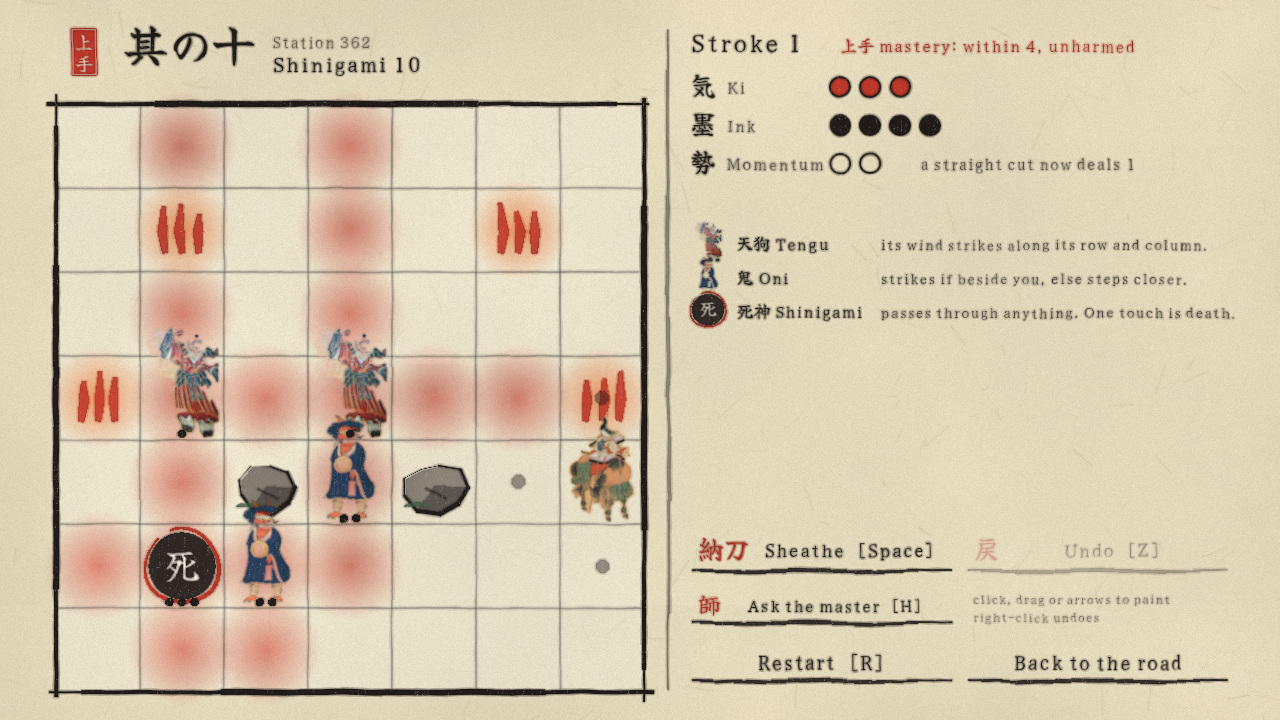
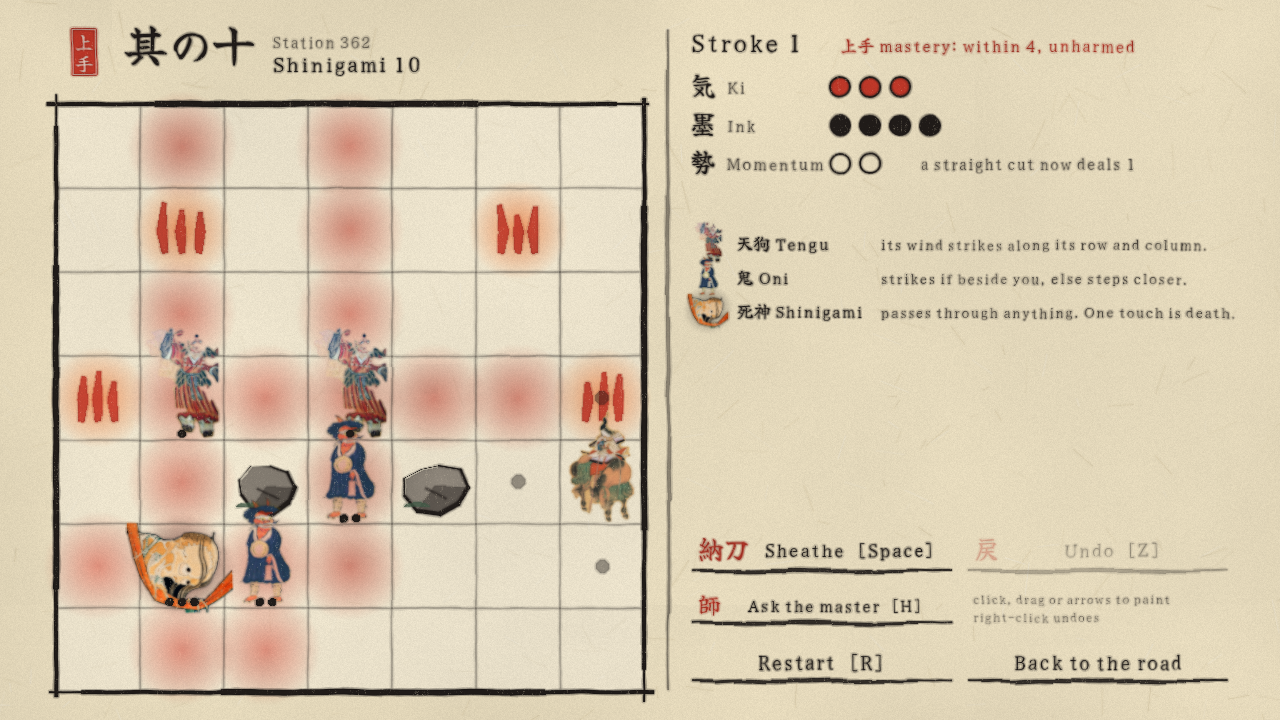
Shinigami: use Hokusai's Ghost of Kohada Koheiji
Replaces the placeholder seal with a figure cut from the 1831-32 print.

diff --git a/art/CREDITS.md b/art/CREDITS.md
@@ -26,6 +26,7 @@ Each figure was cropped from the painting and its paper made transparent.
 - `gasha.png` - Utagawa Kuniyoshi, *Takiyasha the Witch and the Skeleton Spectre*, c. 1844 (detail). Public domain.
 - `daruma.png` - Hakuin Ekaku, *Portrait of Daruma*, 18th century. Metropolitan Museum of Art. Public domain.
 - `tanuki.png` - Katsushika Hokusai, tanuki in a monk's robe beside a tea kettle (*Bunbuku chagama*). Public domain.
+- `shinigami.png` - Katsushika Hokusai, *The Ghost of Kohada Koheiji*, from *One Hundred Ghost Stories*, 1831-32 (detail). Scan: Rawpixel, CC BY-SA 4.0.
 
 ## Sound (`audio/`)
 
